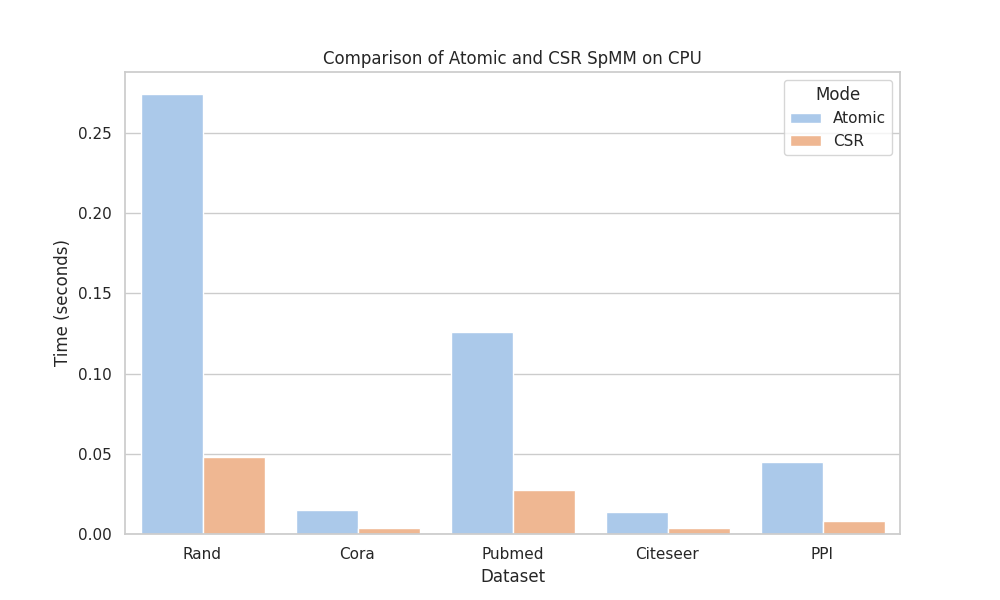
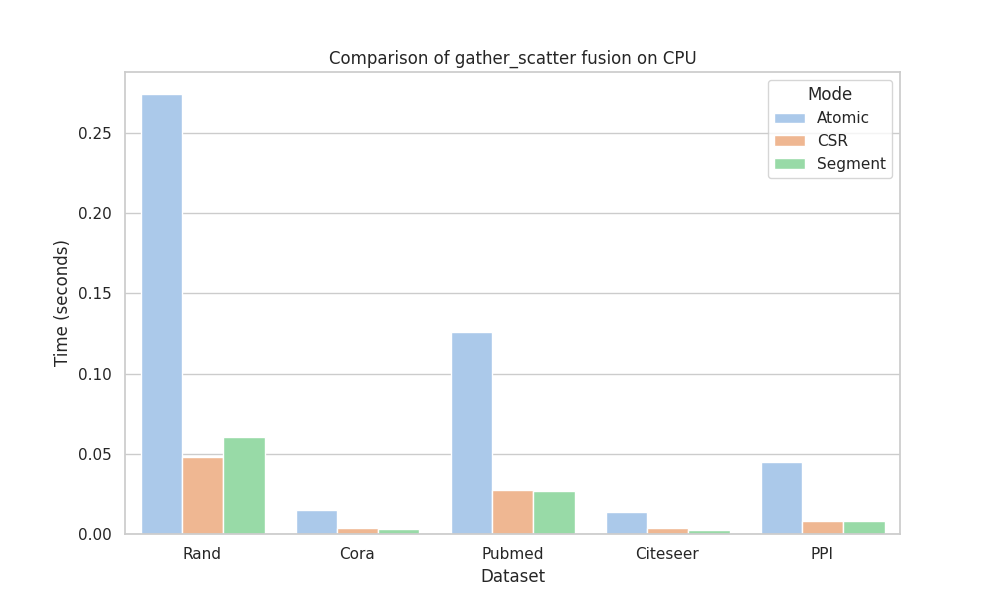
[Update] segment reduce

diff --git a/openmp/plot.py b/openmp/plot.py
@@ -6,7 +6,8 @@ import matplotlib.pyplot as plt
 data = {
     'Dataset': ['Rand', 'Cora', 'Pubmed', 'Citeseer', 'PPI'],
     'Atomic': [0.274290, 0.015134, 0.125721, 0.013407, 0.044826],
-    'CSR': [0.048228, 0.003448, 0.027408, 0.003432, 0.007810]
+    'CSR': [0.048228, 0.003448, 0.027408, 0.003432, 0.007810],
+    'Segment': [0.060774, 0.003108, 0.027068, 0.002452, 0.008297]
 }
 
 # Creating a DataFrame
@@ -21,7 +22,7 @@ sns.set_palette("pastel")
 # Drawing the figure with the new style
 plt.figure(figsize=(10, 6))
 bar_plot = sns.barplot(data=df_long, x='Dataset', y='Time', hue='Mode')
-plt.title('Comparison of Atomic and CSR SpMM on CPU')
+plt.title('Comparison of gather_scatter fusion on CPU')
 plt.ylabel('Time (seconds)')
 plt.xlabel('Dataset')
 plt.legend(title='Mode')

diff --git a/README.md b/README.md
@@ -33,6 +33,15 @@ python spmm_cpu.py --dataset ['cora, etc.'] --feature [32, 64, ...]
 
 ### Result Demo
 
+We find that using segment_reduce SpMM can achieve fast performance and avoid format conversion at the same time. In this way, we ensure the frontend to be like:
+
+```python
+def gather_segment_reduce(x, edge_index, reduce="sum", sorted=True):
+    row, col = edge_index # col is sorted
+    x_j = x[row]
+    return segment_reduce(x_j, col, reduce=reduce)
+```
+
 CPU info: (AVX, AVX2 supported)
 
 ```
